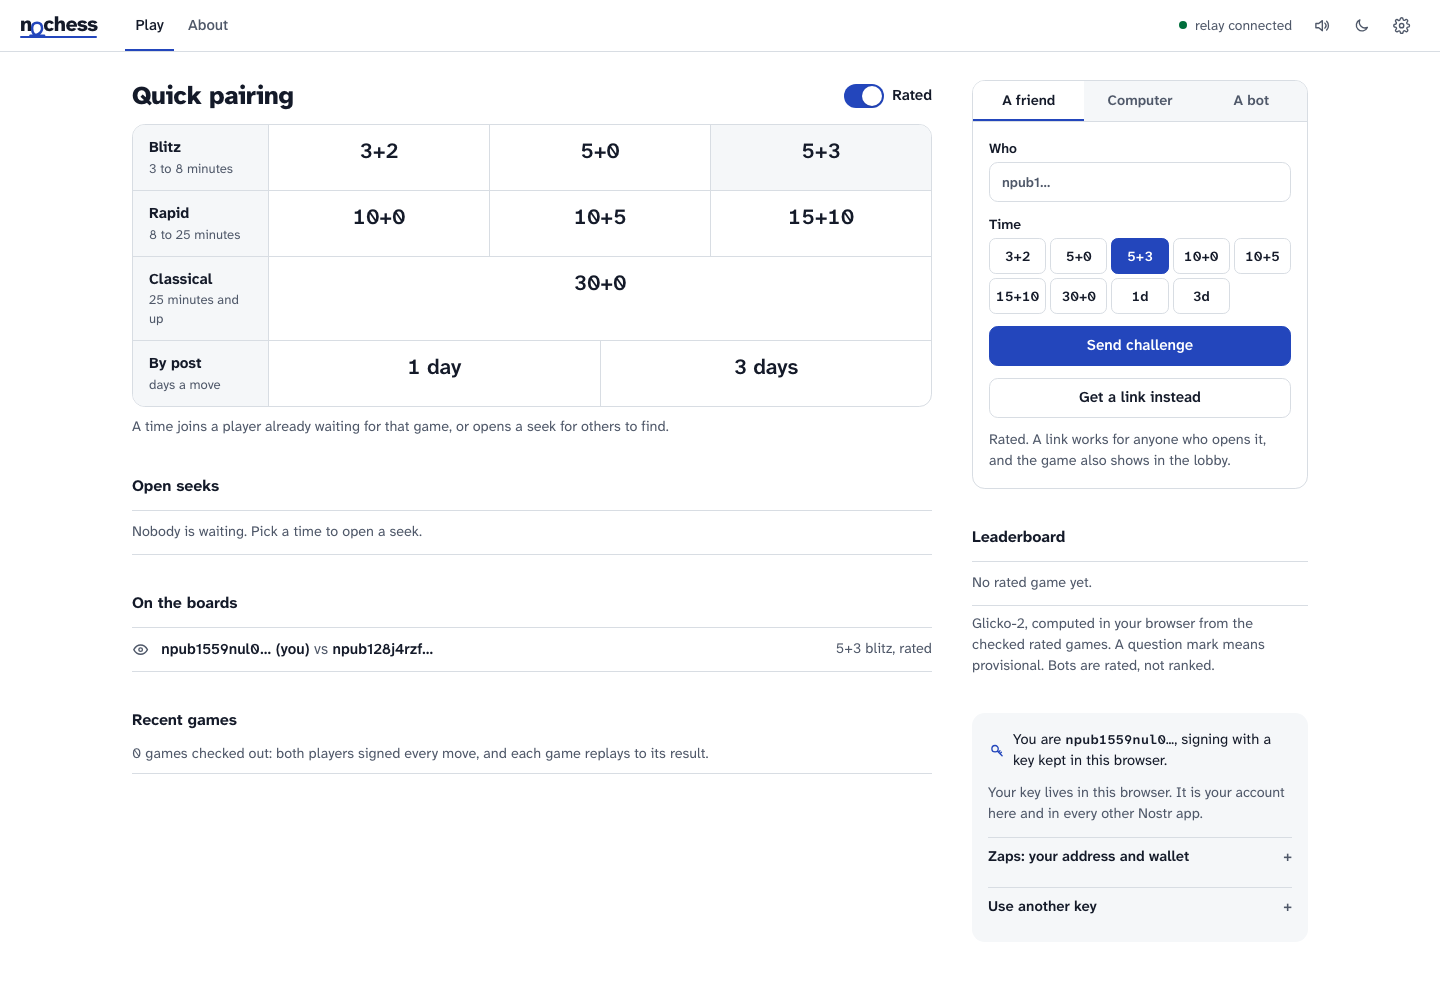
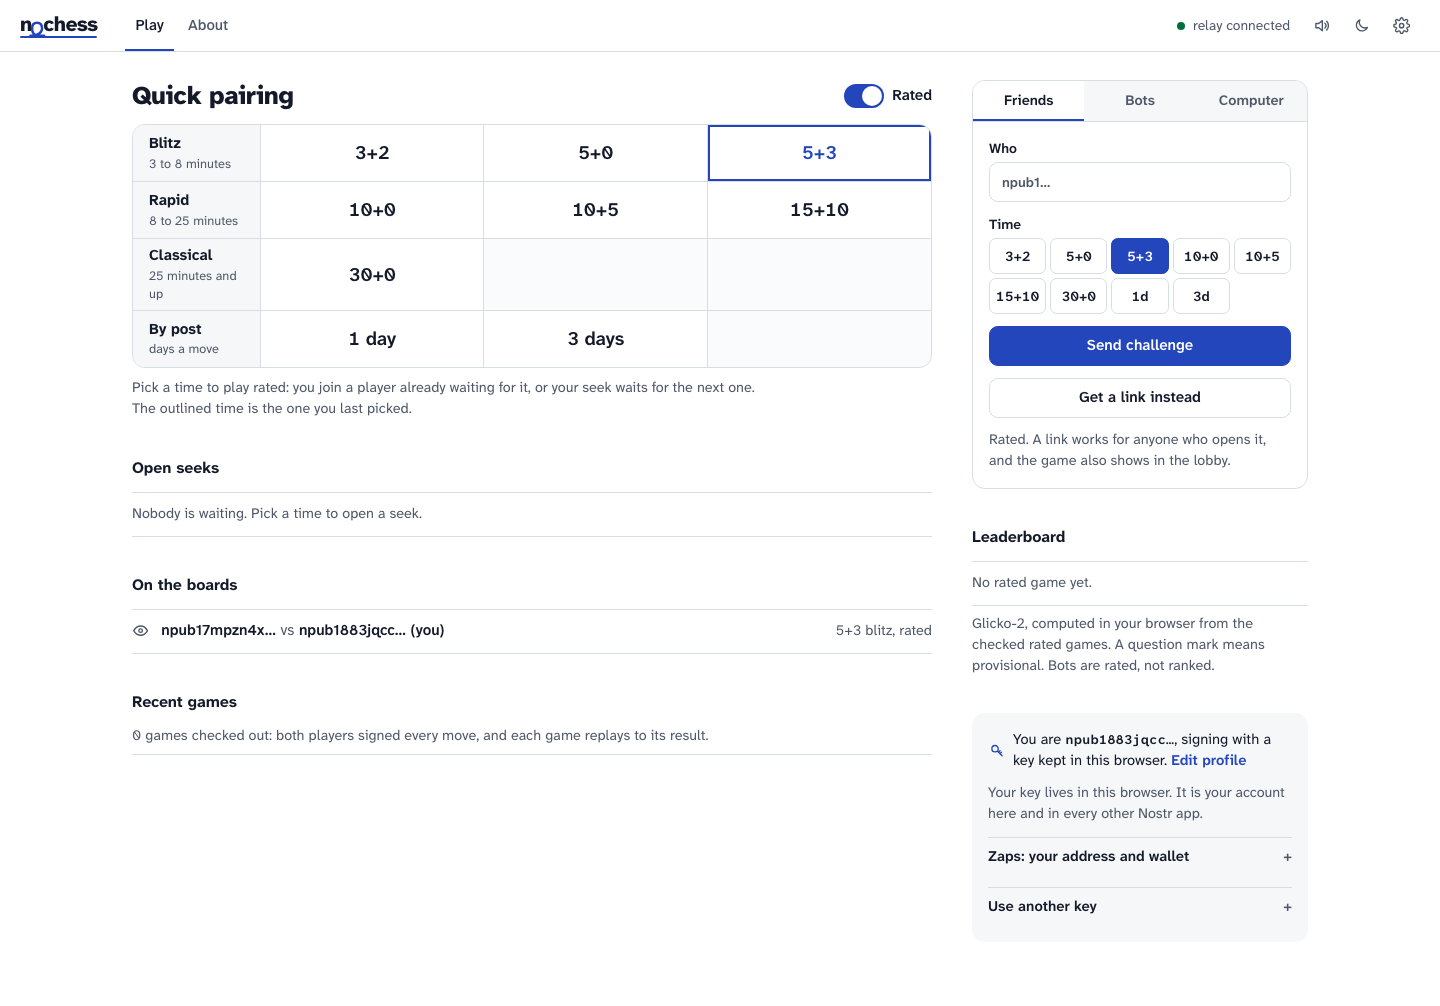
feat: Friends, Bots and Computer tabs, and free bots say Free (#18)
* feat: the new-game tabs read Friends, Bots and Computer, and a free bot's challenge says Free

The Bots tab moves before Computer. A bot charging nothing shows 'Challenge · Free' instead of a bare 'Challenge'; a bot with every table taken stays greyed out and unavailable. The price and availability text move to lib/format.ts with a unit test, and docs/lobby.png shows the new tabs.

* fix: a bot priced at 0 asks for no payment before it joins

Its fee block still limits which games it takes, but the game page no longer offers 'Pay 0 sats to start' while it waits. priceOf in core gives a service's price as 0 with no fee block or a zero price, and the store uses it wherever it read fee.msat for a bot.

diff --git a/e2e/bot.spec.ts b/e2e/bot.spec.ts
@@ -58,10 +58,10 @@ async function playOut(page: Page) {
 test("a player challenges the bot account and plays a rated game to the end", async ({ page }) => {
   test.setTimeout(240_000);
   await page.goto("/play");
-  await page.getByRole("tab", { name: "A bot" }).click();
+  await page.getByRole("tab", { name: "Bots" }).click();
   const row = page.getByTestId("bots").locator("li", { hasText: "Nochess bot" });
   await expect(row.locator(".bot")).toHaveText("BOT");
-  await expect(row.getByTestId("challenge-bot")).toHaveText("Challenge");
+  await expect(row.getByTestId("challenge-bot")).toHaveText("Challenge · Free");
   await row.getByTestId("bot-info").hover();
   await expect(page.getByTestId("bot-record")).toContainText(/new bot|answered/);
   await expect(page.getByTestId("bot-record")).toContainText("withdraws itself");
@@ -76,7 +76,7 @@ test("a player challenges the bot account and plays a rated game to the end", as
   await expect(page.getByTestId("ranks").locator("li", { hasText: "(you)" })).toContainText(
     "blitz",
   );
-  await page.getByRole("tab", { name: "A bot" }).click();
+  await page.getByRole("tab", { name: "Bots" }).click();
   await expect(page.getByTestId("bots").locator("li", { hasText: "Nochess bot" })).toContainText(
     /\d{4}/,
   );
@@ -87,7 +87,7 @@ test("a bot that restarts mid-game still answers the moves of the games it sits 
 }) => {
   test.setTimeout(120_000);
   await page.goto("/play");
-  await page.getByRole("tab", { name: "A bot" }).click();
+  await page.getByRole("tab", { name: "Bots" }).click();
   await page
     .getByTestId("bots")
     .locator("li", { hasText: "Nochess bot" })
@@ -113,7 +113,7 @@ test("a new bot priced over the cap says why it is blocked and links to the cap"
   await page.goto("/settings");
   await page.getByTestId("settings-bot-cap").fill("10");
   await page.goto("/play");
-  await page.getByRole("tab", { name: "A bot" }).click();
+  await page.getByRole("tab", { name: "Bots" }).click();
   const challenge = page
     .getByTestId("bots")
     .locator("li", { hasText: "Paybot" })
@@ -134,7 +134,7 @@ test("a new bot priced over the cap says why it is blocked and links to the cap"
   await expect(cap).toBeFocused();
   await cap.fill("100");
   await page.goto("/play");
-  await page.getByRole("tab", { name: "A bot" }).click();
+  await page.getByRole("tab", { name: "Bots" }).click();
   await expect(challenge).toBeEnabled();
 });
 
@@ -143,7 +143,7 @@ test("a bot with a price joins only once the challenge is paid, and then plays",
 }) => {
   test.setTimeout(240_000);
   await page.goto("/play");
-  await page.getByRole("tab", { name: "A bot" }).click();
+  await page.getByRole("tab", { name: "Bots" }).click();
   const row = page.getByTestId("bots").locator("li", { hasText: "Paybot" });
   await expect(row.getByTestId("challenge-bot")).toHaveText("Challenge · 21 sats");
   const time = (label: string) =>

diff --git a/apps/web/src/pages/lobby.tsx b/apps/web/src/pages/lobby.tsx
@@ -20,7 +20,17 @@ import {
 import { Countdown } from "../components/clock.tsx";
 import { LiveRow, RankRow, ResultRow, SeekRow, ShowAll } from "../components/rows.tsx";
 import { field } from "../components/table.tsx";
-import { plural, seekLink, shortKey, tcLabel, terms, TIME_CONTROLS } from "../lib/format.ts";
+import {
+  botStatus,
+  plural,
+  price,
+  seekLink,
+  shortKey,
+  tcLabel,
+  terms,
+  TIME_CONTROLS,
+  unavailable,
+} from "../lib/format.ts";
 
 const ROWS = [
   { speed: "Blitz", note: "3 to 8 minutes", tcs: ["180+2", "300+0", "300+3"] },
@@ -282,9 +292,9 @@ function Results({ model }: { model: LobbyModel }) {
 function StartPanel({ model }: { model: LobbyModel }) {
   const [tab, setTab] = useState<"friend" | "computer" | "bot">("friend");
   const tabs = [
-    ["friend", "A friend"],
+    ["friend", "Friends"],
+    ["bot", "Bots"],
     ["computer", "Computer"],
-    ["bot", "A bot"],
   ] as const;
   return (
     <section className="overflow-hidden rounded-xl border border-line" aria-label="Start a game">
@@ -404,12 +414,9 @@ function Times({ model }: { model: LobbyModel }) {
 
 type Bot = LobbyModel["bots"][number];
 
-const botStatus = ({ online, free, max }: Bot["status"]) =>
-  !online ? "offline" : free ? `online, ${free} of ${max} free` : "online, every table busy";
-
 function blocked(bot: Bot, model: LobbyModel): ReactNode {
-  if (!bot.status.free)
-    return bot.status.online ? "Every table of this bot is busy." : "This bot is offline.";
+  const busy = unavailable(bot.status);
+  if (busy) return busy;
   if (bot.capped)
     return (
       <>
@@ -426,7 +433,7 @@ function blocked(bot: Bot, model: LobbyModel): ReactNode {
 /** A blocked challenge stays focusable and says why on hover, focus or tap. */
 function Challenge({ bot, model }: { bot: Bot; model: LobbyModel }) {
   const why = blocked(bot, model);
-  const label = `Challenge${bot.sats ? ` · ${plural(bot.sats, "sat")}` : ""}`;
+  const label = `Challenge · ${price(bot.sats)}`;
   const className = cn(button, "h-8 shrink-0 text-[0.87rem]");
   return why ? (
     <Popover>

diff --git a/apps/web/src/app/store.ts b/apps/web/src/app/store.ts
@@ -8,6 +8,7 @@ import {
   type GameEvent,
   KIND,
   NOBODY,
+  priceOf,
   type Profile,
   profileOf,
   readStatus,
@@ -747,7 +748,7 @@ function lobby(): Route {
   }
 
   function start(challenged?: string) {
-    const fee = challenged ? who(challenged).fee?.msat : 0;
+    const fee = challenged ? priceOf(who(challenged)) : 0;
     const wait = !challenged
       ? WAIT.seek
       : !isBot(challenged)
@@ -783,7 +784,7 @@ function lobby(): Route {
         doubted,
         ranks: ranks(),
         bots: [...profiles.keys()].filter(isBot).map((pubkey) => {
-          const sats = (who(pubkey).fee?.msat ?? 0) / 1000;
+          const sats = priceOf(who(pubkey)) / 1000;
           const record = recordOf(pubkey);
           return {
             pubkey,
@@ -935,7 +936,7 @@ function game(host: string, gameId: string): Route {
       const players: string[] = game.players ?? [];
       const { board, moves } = boardOf(play);
       const zaps = zap.zaps(table.receipts).filter((z) => z.addr === table.addr);
-      const botFee = game.challenged ? who(game.challenged).fee : null;
+      const botFee = game.challenged ? priceOf(who(game.challenged)) : 0;
       const answered = new Set(table.labels.map((label) => tagValue(label, "e")));
       return {
         game,
@@ -954,8 +955,8 @@ function game(host: string, gameId: string): Route {
         fee:
           botFee && game.phase === "open" && host === me
             ? {
-                sats: botFee.msat / 1000,
-                paid: zaps.some((z) => z.to === game.challenged && z.msat >= botFee.msat),
+                sats: botFee / 1000,
+                paid: zaps.some((z) => z.to === game.challenged && z.msat >= botFee),
               }
             : null,
         reviewers:

diff --git a/packages/core/src/zap/zap.test.ts b/packages/core/src/zap/zap.test.ts
@@ -4,7 +4,14 @@ import { bech32 } from "@scure/base";
 import { makeZapReceipt } from "nostr-tools/nip57";
 import { finalizeEvent, generateSecretKey, getPublicKey } from "nostr-tools/pure";
 import { expect, test } from "vitest";
-import { covers, type GameEvent, hashHex, profileOf, type Template } from "../game/events.ts";
+import {
+  covers,
+  type GameEvent,
+  hashHex,
+  priceOf,
+  profileOf,
+  type Template,
+} from "../game/events.ts";
 import { decodeInvoice, fakeInvoice } from "./bolt11.ts";
 import { owed, payment } from "./fee.ts";
 import { payUrl } from "./lnurl.ts";
@@ -185,4 +192,14 @@ test("a profile's fee block says what a service charges and which games it takes
   expect(covers(human, { tc: "2d", rated: false })).toBe(true);
   const bank = { nochess: { role: "bank", price_msat: 1 } };
   expect(profileOf({ content: JSON.stringify(bank) }).fee).toBeNull();
+});
+
+test("a bot priced at 0 charges nothing, yet its fee block still says which games it takes", () => {
+  const nochess = { role: "bot", price_msat: 0, speeds: ["blitz"] };
+  const free = profileOf({ content: JSON.stringify({ bot: true, nochess }) });
+  expect(priceOf(free)).toBe(0);
+  expect(covers(free, { tc: "900+10", rated: true })).toBe(false);
+  expect(priceOf(profileOf({ content: '{"name":"H"}' }))).toBe(0);
+  const paid = { nochess: { role: "bot", price_msat: 21_000 } };
+  expect(priceOf(profileOf({ content: JSON.stringify(paid) }))).toBe(21_000);
 });

diff --git a/e2e/shots.ts b/e2e/shots.ts
@@ -114,7 +114,7 @@ test("landing, lobby, game, settings, zaps, a paid bot and an invoice render wit
 
   const challenger = watch(await player(browser));
   await challenger.goto("/play");
-  await challenger.getByRole("tab", { name: "A bot" }).click();
+  await challenger.getByRole("tab", { name: "Bots" }).click();
   const botRows = challenger.getByTestId("bots").locator("li");
   await expect(botRows.filter({ hasText: "Nochess bot" })).toBeVisible();
   for (const width of [1440, 1024, 768, 390]) {
@@ -135,7 +135,7 @@ test("landing, lobby, game, settings, zaps, a paid bot and an invoice render wit
     await player(browser, undefined, { "nochess:settings": JSON.stringify({ newBotCap: 10 }) }),
   );
   await capped.goto("/play");
-  await capped.getByRole("tab", { name: "A bot" }).click();
+  await capped.getByRole("tab", { name: "Bots" }).click();
   for (const width of [1440, 390]) {
     await capped.setViewportSize({ width, height: 844 });
     await capped

diff --git a/apps/web/src/lib/format.test.ts b/apps/web/src/lib/format.test.ts
@@ -1,0 +1,17 @@
+import { expect, test } from "vitest";
+import { botStatus, price, unavailable } from "./format.ts";
+
+test("a bot's price reads Free at 0 and in sats otherwise", () => {
+  expect(price(0)).toBe("Free");
+  expect(price(1)).toBe("1 sat");
+  expect(price(21)).toBe("21 sats");
+});
+
+test("a free bot with every table taken is unavailable, as is one offline", () => {
+  const full = { online: true, free: 0, max: 5 };
+  expect(botStatus(full)).toBe("online, every table busy");
+  expect(unavailable(full)).toBe("Every table of this bot is busy.");
+  expect(unavailable({ online: false, free: 0, max: 5 })).toBe("This bot is offline.");
+  expect(botStatus({ online: true, free: 2, max: 5 })).toBe("online, 2 of 5 free");
+  expect(unavailable({ online: true, free: 2, max: 5 })).toBeUndefined();
+});

diff --git a/apps/web/src/lib/format.ts b/apps/web/src/lib/format.ts
@@ -18,6 +18,13 @@ export const TIME_CONTROLS = [
 
 export const shortKey = (pubkey: string) => `${nip19.npubEncode(pubkey).slice(0, 12)}…`;
 export const plural = (n: number, word: string) => `${n} ${word}${n === 1 ? "" : "s"}`;
+export const price = (sats: number) => (sats ? plural(sats, "sat") : "Free");
+
+type BotStatus = { online: boolean; free: number; max: number };
+export const botStatus = ({ online, free, max }: BotStatus) =>
+  !online ? "offline" : free ? `online, ${free} of ${max} free` : "online, every table busy";
+export const unavailable = ({ online, free }: BotStatus) =>
+  free ? undefined : online ? "Every table of this bot is busy." : "This bot is offline.";
 
 export function tcLabel(tc: string): string {
   const clock = parseTc(tc);

diff --git a/packages/core/src/game/events.ts b/packages/core/src/game/events.ts
@@ -320,6 +320,9 @@ export function profileOf(event: Pick<GameEvent, "content">): Profile {
   }
 }
 
+/** What a service charges a game, in millisats: 0 without a fee block or at a price of 0. */
+export const priceOf = ({ fee }: Profile) => fee?.msat ?? 0;
+
 /** Whether a service takes a game on these terms; one that names no fee block takes any. */
 export const covers = ({ fee }: Profile, { tc, rated }: Terms) =>
   !fee || ((fee.speeds?.includes(speedOf(tc) ?? "") ?? true) && (rated ? fee.rated : fee.casual));
